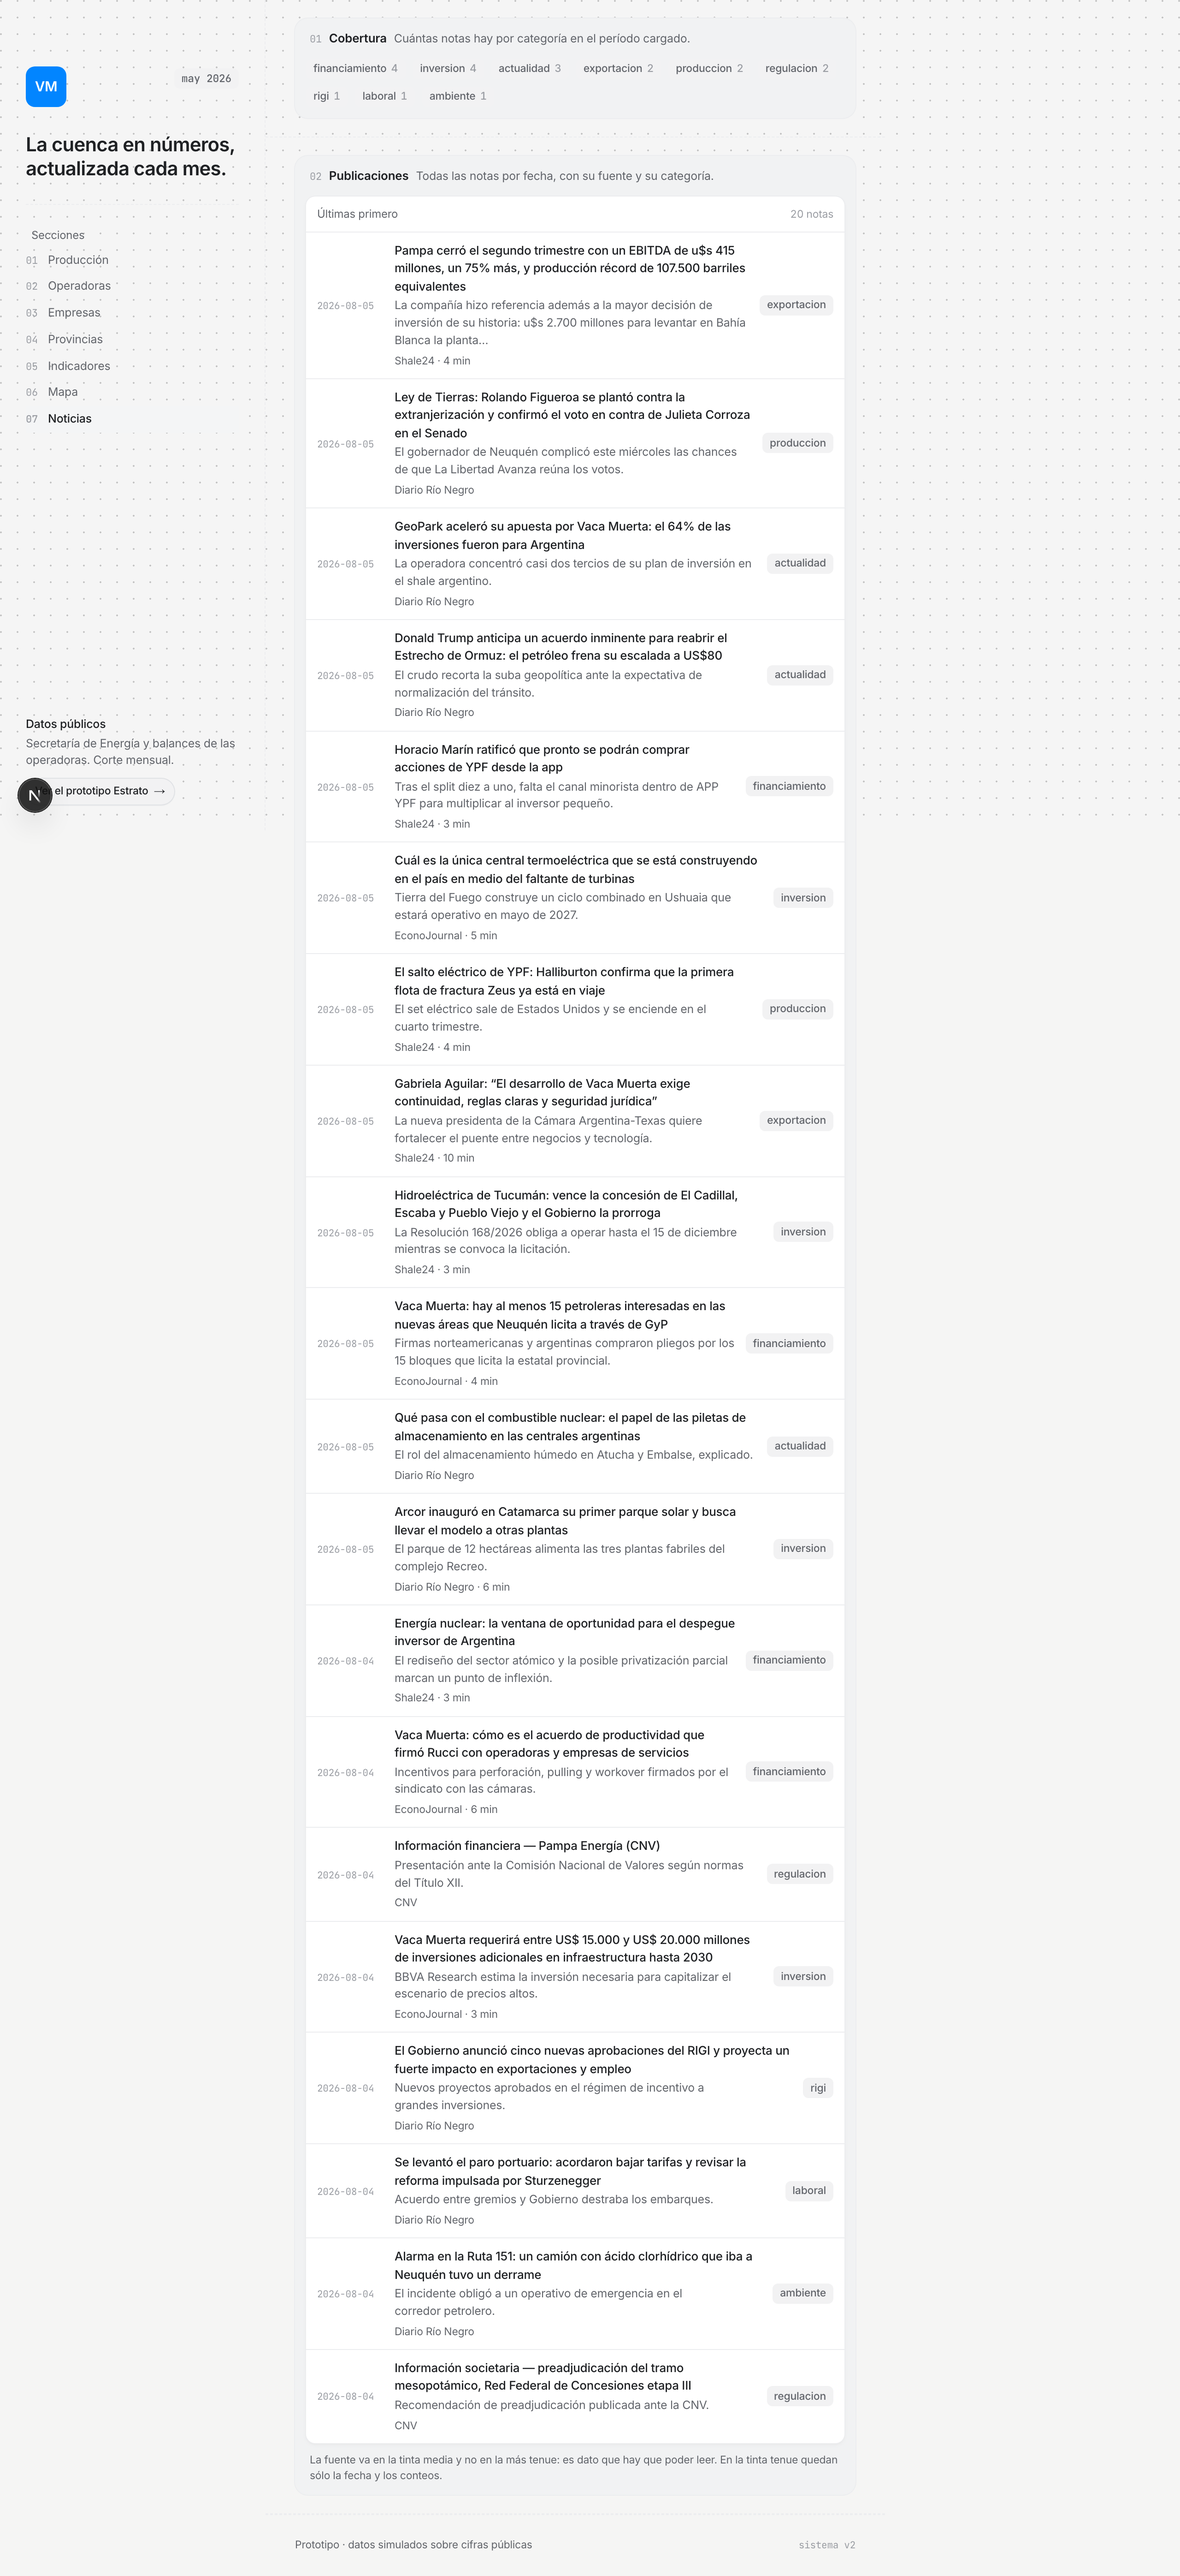
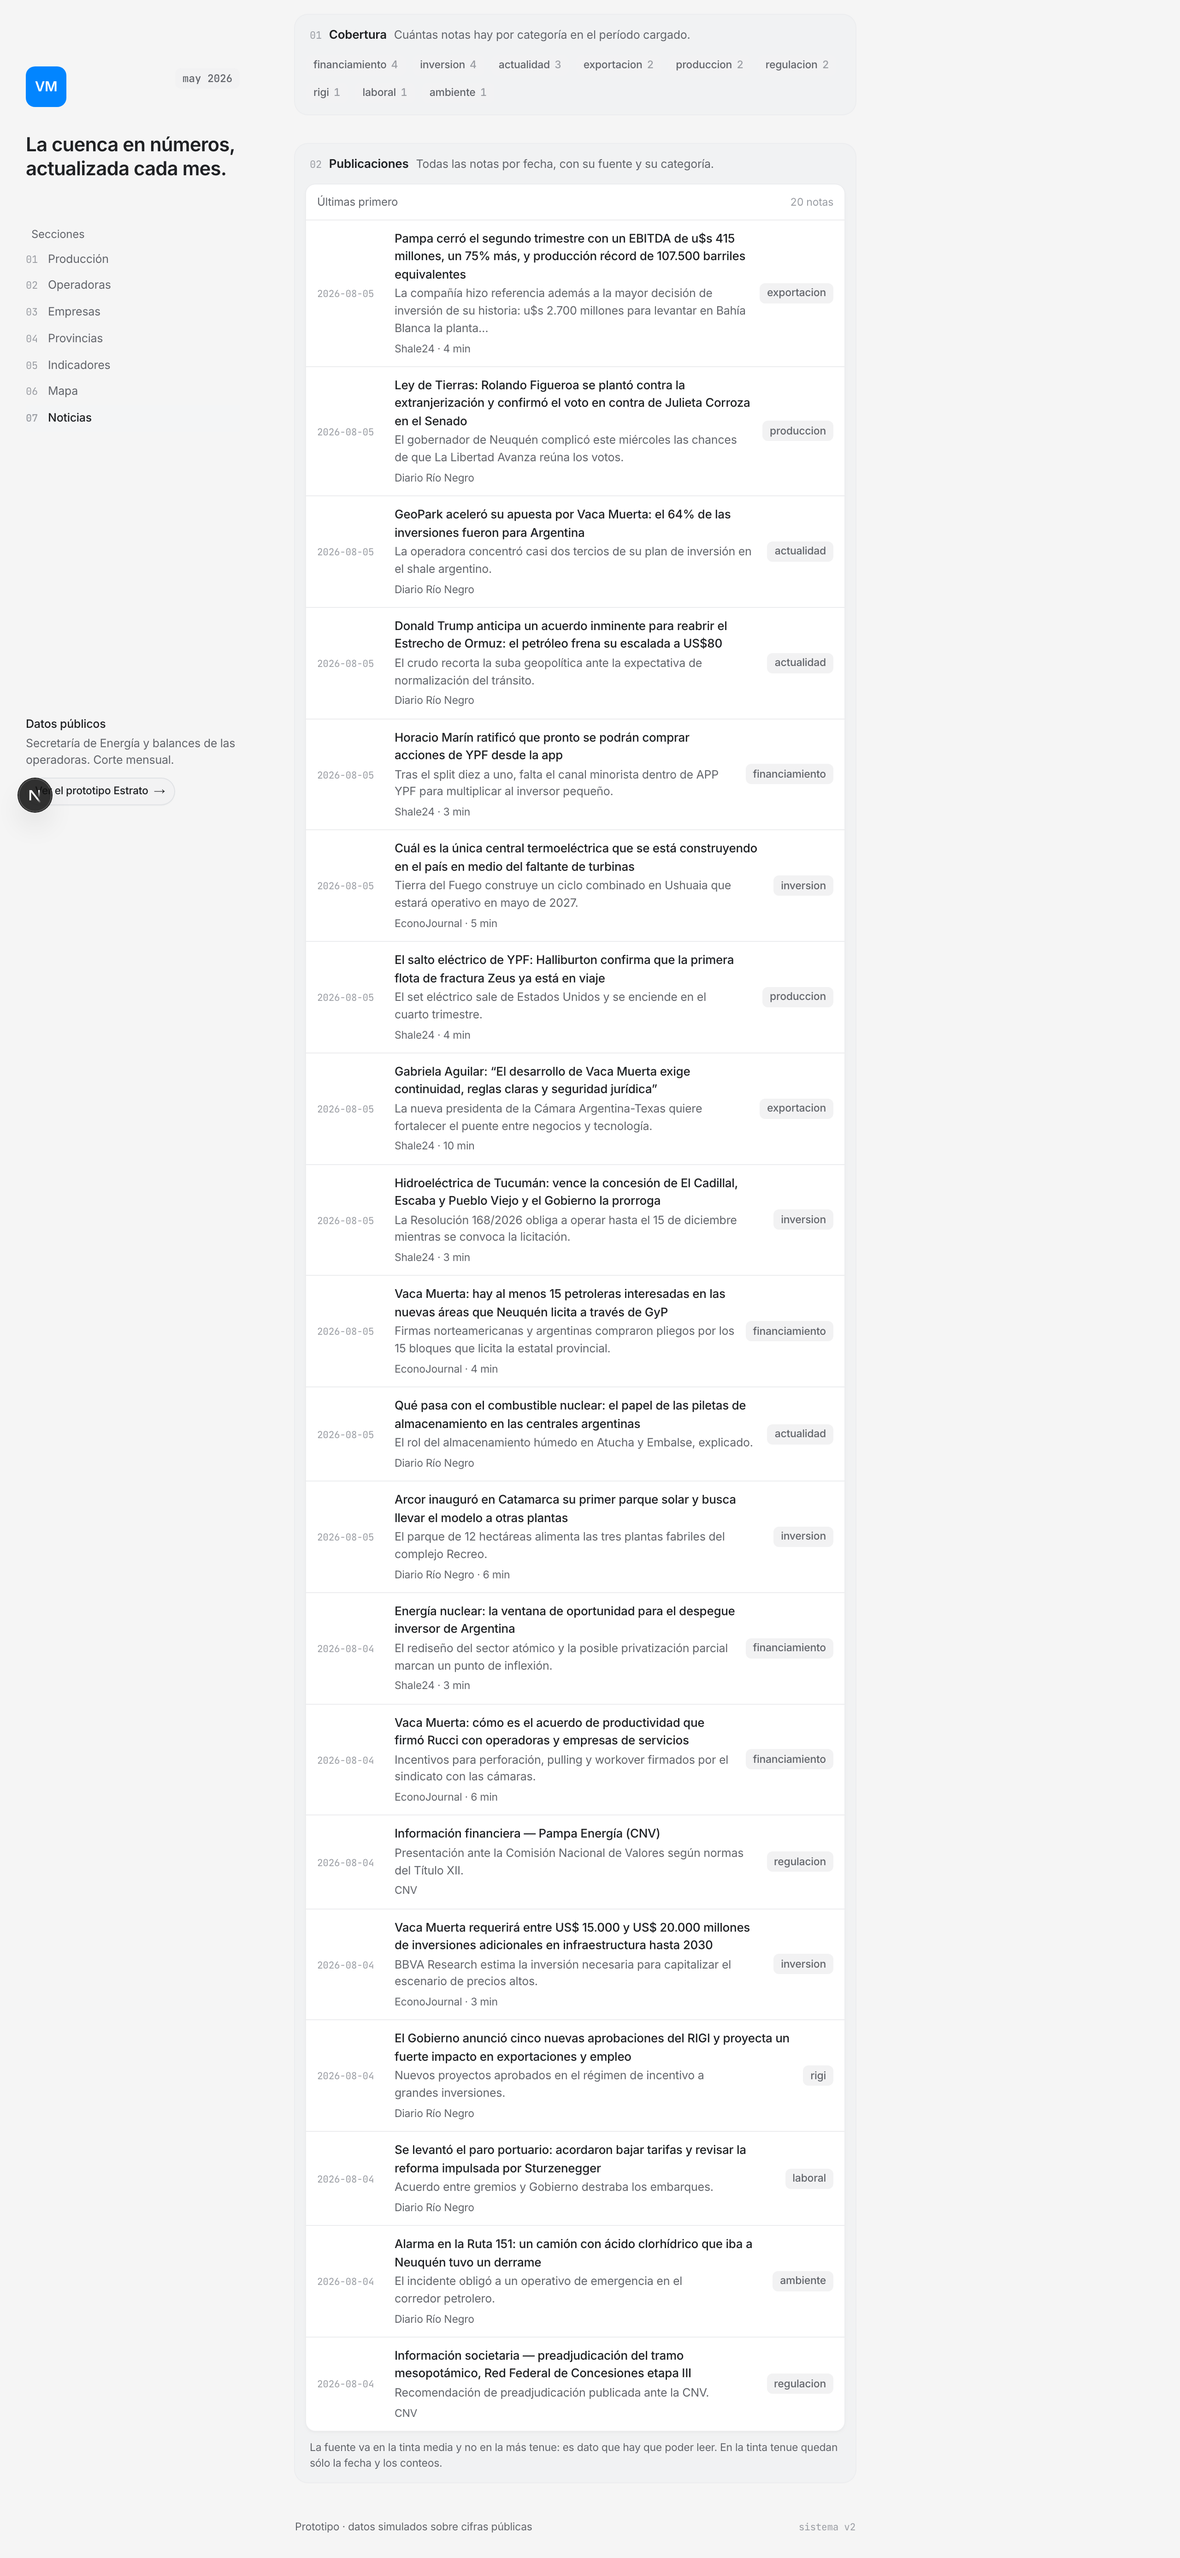
style(ui-prototype): v2 más compacto, sin textura y sin punteados
Tres pruebas encadenadas, todas medidas.

1. Spacing muy compacto: el padding vertical de sección baja de 20 a 16px.
2. Sale la grilla de puntos: el fondo queda plano. Las tres líneas están
   comentadas en sistema.css, no borradas, para volver en un segundo.
3. Salen las líneas punteadas de división: entre secciones, en el pie y en
   el índice. Ya no queda ningún `dashed` en v2.

Entre marco y marco quedan 32px y la página de inicio pasó de 2311 a 2065px,
un 11% menos que al empezar.

Lo que hay que mirar de esto: al sacar la textura, el suelo y el marco quedan
a 0,9 puntos de luminosidad en claro y a 0,4 en oscuro — prácticamente el
mismo color. Lo único que separa el marco del suelo ahora es su anillo de 1px
y el radio de la esquina. Funciona, pero es el límite: si el marco necesitara
despegarse más, la palanca es subirle luminosidad, no devolver la textura.

La textura y el punteado eran los dos rasgos más reconocibles de la
referencia. Sin ellos esto ya no se lee como beautifului.dev: se lee como un
sistema propio que comparte su densidad, su escala tipográfica y su regla de
que la profundidad la hace un borde y no una sombra.

diff --git a/apps/ui-prototype/src/app/v2/sistema.css b/apps/ui-prototype/src/app/v2/sistema.css
@@ -95,14 +95,15 @@
   --shadow-card: 0 0 0 1px var(--line), 0 1px 2px #0003, 0 2px 6px #0003;
 }
 
-/* ── EL FONDO. Grilla de puntos de 1px cada 18px, fija al scroll: el
-      contenido pasa por delante de una textura que no se mueve. ────────── */
+/* ── EL FONDO. Sin textura (prueba de Mariano, 2026-08-14): el fondo queda
+      plano y lo único que separa el marco del suelo es el anillo de 1px.
+      Para volver a la grilla, descomentar las tres líneas de abajo. ────── */
 .sistema {
   min-height: 100dvh;
   background-color: var(--dot-bg);
-  background-image: radial-gradient(circle at 1px 1px, var(--dot) 1px, transparent 0);
+  /* background-image: radial-gradient(circle at 1px 1px, var(--dot) 1px, transparent 0);
   background-size: 18px 18px;
-  background-attachment: fixed;
+  background-attachment: fixed; */
   color: var(--ink);
   font-family: var(--font-inter), ui-sans-serif, system-ui, sans-serif;
   font-size: 14px;
@@ -140,18 +141,17 @@
 .s-num { font-variant-numeric: tabular-nums; }
 
 /* ── Sección: cero margen entre secciones, separa una línea PUNTEADA ─────
-      El vertical baja de 40 a 20 (pedido de Mariano, 2026-08-14): entre marco
+      El vertical baja de 40 a 16 (pedido de Mariano, 2026-08-14): entre marco
       y marco quedaban 81px —40 abajo + 1 de línea + 40 arriba— medidos de la
       referencia, donde cada sección es una demo de 272px de alto y necesita
       ese aire. Las nuestras son filas de datos, mucho más bajas, y 81px
-      pesaba de más. Con 20 quedan 41.
+      pesaba de más. Con 16 quedan 33.
 
       Efecto lateral que conviene notar: ahora el padding horizontal (32)
       supera al vertical (20), que es la relación que el sistema usa en todos
       los demás componentes. La sección era la única que la invertía. */
-.s-seccion { padding: 20px 32px; border-bottom: 1px dashed var(--line); }
-.s-seccion:last-child { border-bottom: 0; }
-@media (max-width: 639px) { .s-seccion { padding: 16px 20px; } }
+.s-seccion { padding: 16px 32px; }
+@media (max-width: 639px) { .s-seccion { padding: 12px 20px; } }
 
 /* la descripción comparte renglón con el título: el layout impone su largo */
 @media (min-width: 640px) {
@@ -324,14 +324,13 @@
   }
 }
 
-/* ── Pie de página: cierra con el mismo punteado que separa las secciones ── */
+/* ── Pie de página ────────────────────────────────────────────────────── */
 .s-pie {
   display: flex;
   align-items: center;
   justify-content: space-between;
   gap: 16px;
   padding: 24px 32px;
-  border-top: 1px dashed var(--line);
 }
 
 /* ── Entrada de sección. El sistema pide movimiento; este es el suyo

diff --git a/apps/ui-prototype/src/app/v2/_ui/Indice.tsx b/apps/ui-prototype/src/app/v2/_ui/Indice.tsx
@@ -29,7 +29,7 @@ export function Indice() {
 
   return (
     <aside
-      className="flex flex-col border-b border-dashed px-7 pt-10 pb-7 lg:sticky lg:top-0 lg:h-dvh lg:overflow-hidden lg:border-r lg:border-b-0 lg:pt-[clamp(2.5rem,8vh,5rem)]"
+      className="flex flex-col px-7 pt-10 pb-7 lg:sticky lg:top-0 lg:h-dvh lg:overflow-hidden lg:pt-[clamp(2.5rem,8vh,5rem)]"
       style={{ borderColor: 'var(--line)' }}
     >
       <div className="shrink-0">
@@ -52,7 +52,7 @@ export function Indice() {
         </h1>
       </div>
 
-      <div className="my-6 h-px shrink-0 border-t border-dashed" style={{ borderColor: 'var(--line)' }} />
+      <div className="my-6 shrink-0" />
 
       <nav
         className="relative min-h-0 flex-1 lg:overflow-hidden"
